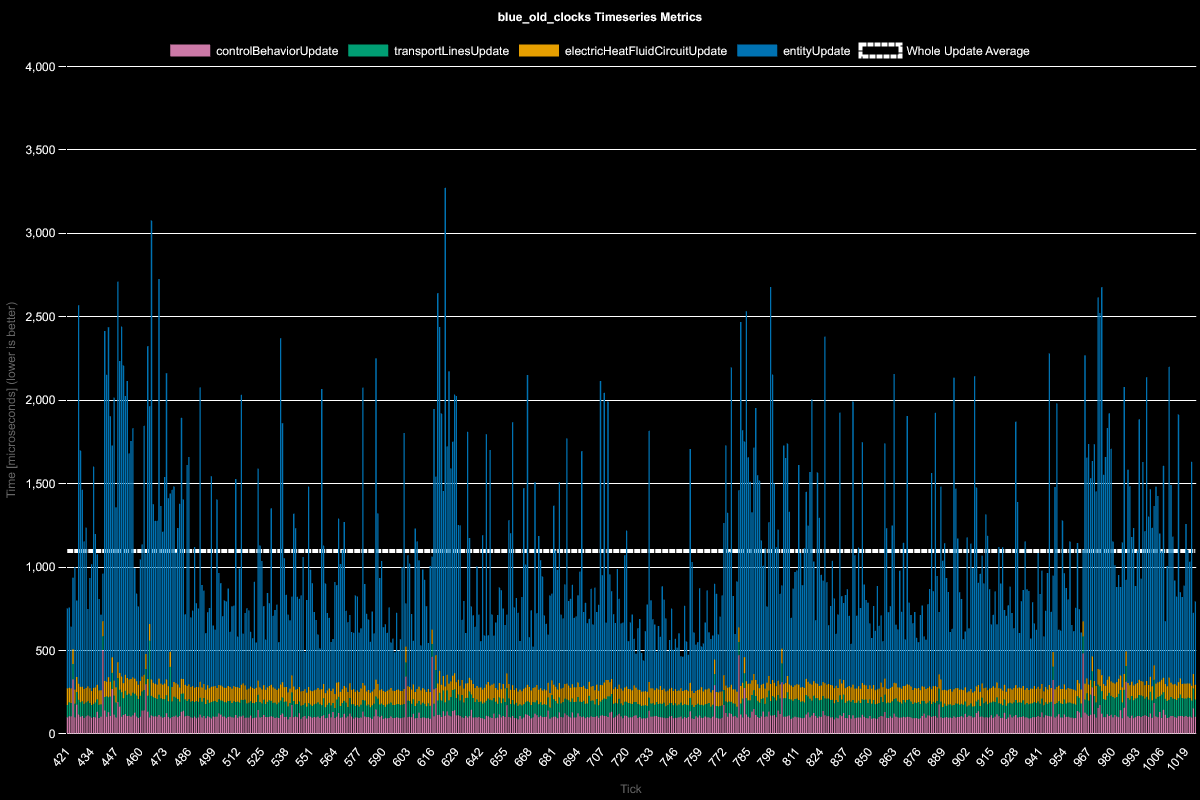
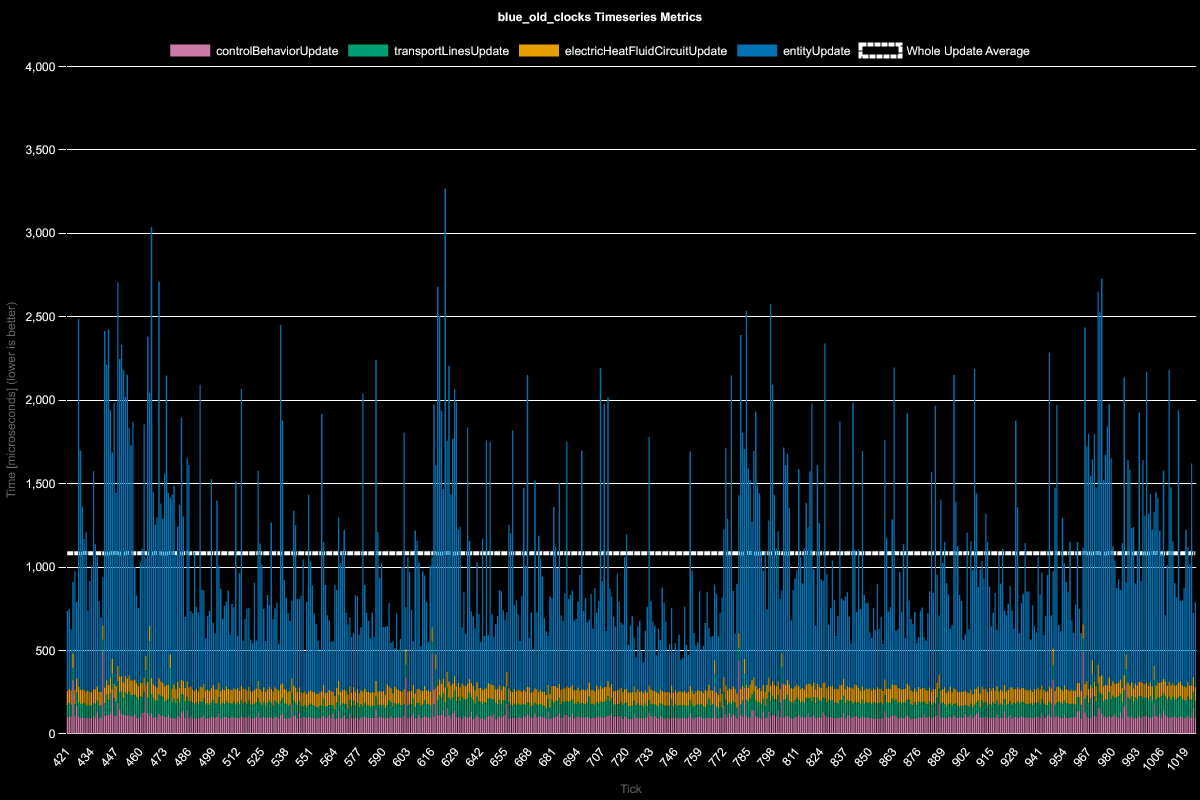
clock-generator-tests fix blue science build not producing constantly

diff --git a/benchmarks/2025-12-28-clock-generator-tests/README.md b/benchmarks/2025-12-28-clock-generator-tests/README.md
@@ -53,10 +53,10 @@ One thing that should be noted is that the copper wire clock was not exactly acc
 
 ## Blue Science Results
 ![alt text](charts/summary_blue.png)
-| Save File       | Entity Update | Control Behavior Update | Electric/Heat/Fluid Circuit Update | Transport Lines Update | Other | Whole Update | % Decrease from Previous | % Decrease from Best |
-| --------------- | ------------- | ----------------------- | ---------------------------------- | ---------------------- | ----- | ------------ | ------------------------ | -------------------- |
-| blue_gen_clocks | 760           | 111                     | 88                                 | 88                     | 31    | 1078         |                          | 0%                   |
-| blue_old_clocks | 772           | 112                     | 89                                 | 94                     | 30    | 1096         | -1.7%                    | -1.7%                |
+| Save File       | Entity Update | Control Behavior Update | Transport Lines Update | Electric/Heat/Fluid Circuit Update | Other | Whole Update | % Decrease from Previous | % Decrease from Best |
+| --------------- | ------------- | ----------------------- | ---------------------- | ---------------------------------- | ----- | ------------ | ------------------------ | -------------------- |
+| blue_gen_clocks | 758           | 108                     | 85                     | 82                                 | 28    | 1062         |                          | 0%                   |
+| blue_old_clocks | 771           | 108                     | 91                     | 84                                 | 28    | 1083         | -1.95%                   | -1.95%               |
 
 ## Verbose Timeseries Charts
 ![alt text](charts/timeseries_red_gen_clocks.png) 

diff --git a/benchmarks/2025-12-28-clock-generator-tests/charts/summary_all.md b/benchmarks/2025-12-28-clock-generator-tests/charts/summary_all.md
@@ -2,8 +2,8 @@
 |---|---|---|---|---|---|---|---|---|
 |red_gen_clocks|715|92|91|80|27|1005||0%|
 |red_old_clocks|722|97|92|83|26|1020|-1.47%|-1.47%|
-|blue_gen_clocks|760|111|88|88|31|1078|-5.67%|-7.22%|
-|blue_old_clocks|772|112|89|94|30|1096|-1.7%|-9.04%|
-|green_gen_clocks_1.2|846|83|69|79|24|1102|-0.52%|-9.61%|
+|blue_gen_clocks|758|108|82|85|28|1062|-4.15%|-5.68%|
+|blue_old_clocks|771|108|84|91|28|1083|-1.95%|-7.74%|
+|green_gen_clocks_1.2|846|83|69|79|24|1102|-1.74%|-9.61%|
 |green_gen_clocks_1.1|890|71|70|79|25|1135|-3.01%|-12.91%|
 |green_old_clocks|886|110|75|80|25|1176|-3.66%|-17.04%|

diff --git a/benchmarks/2025-12-28-clock-generator-tests/charts/summary_blue.md b/benchmarks/2025-12-28-clock-generator-tests/charts/summary_blue.md
@@ -1,4 +1,4 @@
-|Save File|Entity Update|Control Behavior Update|Electric/Heat/Fluid Circuit Update|Transport Lines Update|Other|Whole Update|% Decrease from Previous|% Decrease from Best|
+|Save File|Entity Update|Control Behavior Update|Transport Lines Update|Electric/Heat/Fluid Circuit Update|Other|Whole Update|% Decrease from Previous|% Decrease from Best|
 |---|---|---|---|---|---|---|---|---|
-|blue_gen_clocks|760|111|88|88|31|1078||0%|
-|blue_old_clocks|772|112|89|94|30|1096|-1.7%|-1.7%|
+|blue_gen_clocks|758|108|85|82|28|1062||0%|
+|blue_old_clocks|771|108|91|84|28|1083|-1.95%|-1.95%|
